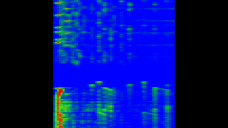
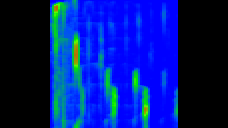
Edited build scripts, edited some visualizers

diff --git a/script.js b/script.js
@@ -2091,7 +2091,7 @@ var vis = {
         }
     },
     'SEPARATOR_BARS" disabled="': {
-        name: 'Bars and Lines',
+        name: 'Bars and Waves',
         start: function(){
 
         },
@@ -4587,15 +4587,41 @@ var vis = {
             smoke.clearRect(0, 0, size[0], size[1]);
         },
         frame: function(){
-            var left = size[0] / 2 - 512;
-            canvas.putImageData(canvas.getImageData(left, 0, left + 1024, size[1]), left, -1);
+            var left = size[0] / 2 - 64;
+            canvas.putImageData(canvas.getImageData(left, 0, left + 128, size[1]), left, -1);
             var strength = 0;
             canvas.fillStyle = "#000";
             canvas.fillRect(0, size[1] - 1, size[0], 1);
             for(var i = 0; i < 64; i++){
                 strength = visData[i];
                 canvas.fillStyle = getColor(strength, i * 4);
-                canvas.fillRect(left + i * 16, size[1] - 1, 16, 1);
+                canvas.fillRect(left + i * 2, size[1] - 1, 2, 1);
+            }
+        },
+        sizechange: function(){
+            canvas.clearRect(0, 0, size[0], size[1]);
+        },
+        stop: function(){
+            
+        }
+    },
+    spectrogramStretched: {
+        name: "Spectrogram Stretched",
+        image: "visualizers/spectrogramStretched.png",
+        start: function(){
+            canvas.clearRect(0, 0, size[0], size[1]);
+            smoke.clearRect(0, 0, size[0], size[1]);
+        },
+        frame: function(){
+            var left = size[0] / 2 - 256;
+            canvas.putImageData(canvas.getImageData(left, 0, left + 512, size[1]), left, -1);
+            var strength = 0;
+            canvas.fillStyle = "#000";
+            canvas.fillRect(0, size[1] - 1, size[0], 1);
+            for(var i = 0; i < 64; i++){
+                strength = visData[i];
+                canvas.fillStyle = getColor(strength, i * 4);
+                canvas.fillRect(left + i * 8, size[1] - 1, 8, 1);
             }
         },
         sizechange: function(){
@@ -5959,9 +5985,9 @@ resizeSmoke();
 var featuredVis = {
     reflection: 1,
     triWave: 1,
-    circle: 1,
     bassCircle: 1,
-    dynamicTiles: 1
+    dynamicTiles: 1,
+    spectrogramStretched: 1
 };
 
 function openVisualizerMenu(){

diff --git a/build_win.js b/build_win.js
@@ -1,22 +1,29 @@
+console.log("Preparing packager...");
+
 const packager = require('electron-packager');
 
-console.log("initializing bundleElectronApp...");
 async function bundleElectronApp(options){
     const appPaths = await packager(options);
-    console.log(`Electron app bundles created:\n${appPaths.join("\n")}`);
+    if(appPaths.length > 0){
+        console.log(`Electron app package created: ${appPaths.join(", ")}`);
+    }else{
+        console.log(`Electron app package failed to create.`);
+    }
 }
 
 var options_win = {
     dir: ".",
-    arch: "ia32",
+    arch: "x64",
     asar: true,
     platform: "win32",
     icon: "win_icon.ico",
     out: "release-builds/win",
     overwrite: "true",
-    ignore: /release\-builds\//,
-
+    ignore: /release\-builds\//
 };
 
-console.log("building for Windows...");
+bundleElectronApp(options_win);
+options_win.arch = "ia32";
+bundleElectronApp(options_win);
+options_win.arch = "arm64";
 bundleElectronApp(options_win);

diff --git a/build_linux.js b/build_linux.js
@@ -1,9 +1,14 @@
+console.log("Preparing packager...");
+
 const packager = require('electron-packager');
 
-console.log("initializing bundleElectronApp...");
 async function bundleElectronApp(options){
     const appPaths = await packager(options);
-    console.log(`Electron app bundles created:\n${appPaths.join("\n")}`);
+    if(appPaths.length > 0){
+        console.log(`Electron app package created: ${appPaths.join(", ")}`);
+    }else{
+        console.log(`Electron app package failed to create.`)
+    }
 }
 
 var options_linux = {
@@ -17,5 +22,10 @@ var options_linux = {
     ignore: /release\-builds\//
 };
 
-console.log("building for Linux...");
+bundleElectronApp(options_linux);
+options_linux.arch = "ia32";
+bundleElectronApp(options_linux);
+options_linux.arch = "arm64";
+bundleElectronApp(options_linux);
+options_linux.arch = "armv7l";
 bundleElectronApp(options_linux);

diff --git a/build_mac.js b/build_mac.js
@@ -1,9 +1,14 @@
+console.log("Preparing packager...");
+
 const packager = require('electron-packager');
 
-console.log("initializing bundleElectronApp...");
 async function bundleElectronApp(options){
     const appPaths = await packager(options);
-    console.log(`Electron app bundles created:\n${appPaths.join("\n")}`);
+    if(appPaths.length > 0){
+        console.log(`Electron app package created: ${appPaths.join(", ")}`);
+    }else{
+        console.log(`Electron app package failed to create.`)
+    }
 }
 
 var options_mac = {
@@ -23,5 +28,6 @@ var options_mac = {
     ignore: /release\-builds\//
 };
 
-console.log("building for MacOS...");
+bundleElectronApp(options_mac);
+options_mac.arch = "arm64";
 bundleElectronApp(options_mac);
